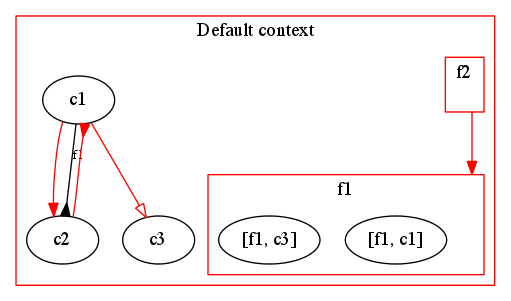
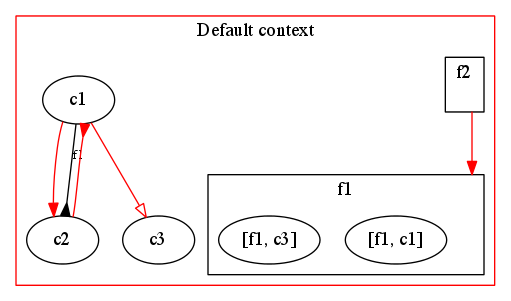
Graph viewer bug with active features

Changed region(s): [[0.3816, 0.5681, 0.9687, 0.9269], [0.8513, 0.1794, 0.9687, 0.3887]]

diff --git a/examples/demo_relationships.rb b/examples/demo_relationships.rb
@@ -42,9 +42,11 @@ puts "===> :c1 context deactivated"
 deactivate_context :c1
 puts show_active_contexts
 
+Phenomenal::Viewer::Graphical.new("demo_relationships.png").generate
+#puts Phenomenal::Viewer::Textual.new.generate
+
 puts "===> :c2 context activated"
 activate_context :c2
 puts show_active_contexts
 
-Phenomenal::Viewer::Graphical.new("demo_relationships.png").generate
-#puts Phenomenal::Viewer::Textual.new.generate
+

diff --git a/lib/phenomenal/viewer/graphical.rb b/lib/phenomenal/viewer/graphical.rb
@@ -113,7 +113,11 @@ class Phenomenal::Viewer::Graphical
     end
     # Define node color
     if context.active?
+      puts "ACT #{context.to_s}"
       node[:color]="red"
+    else
+      puts "UNACT #{context.to_s}"
+      node[:color]="black"
     end
     
   end
